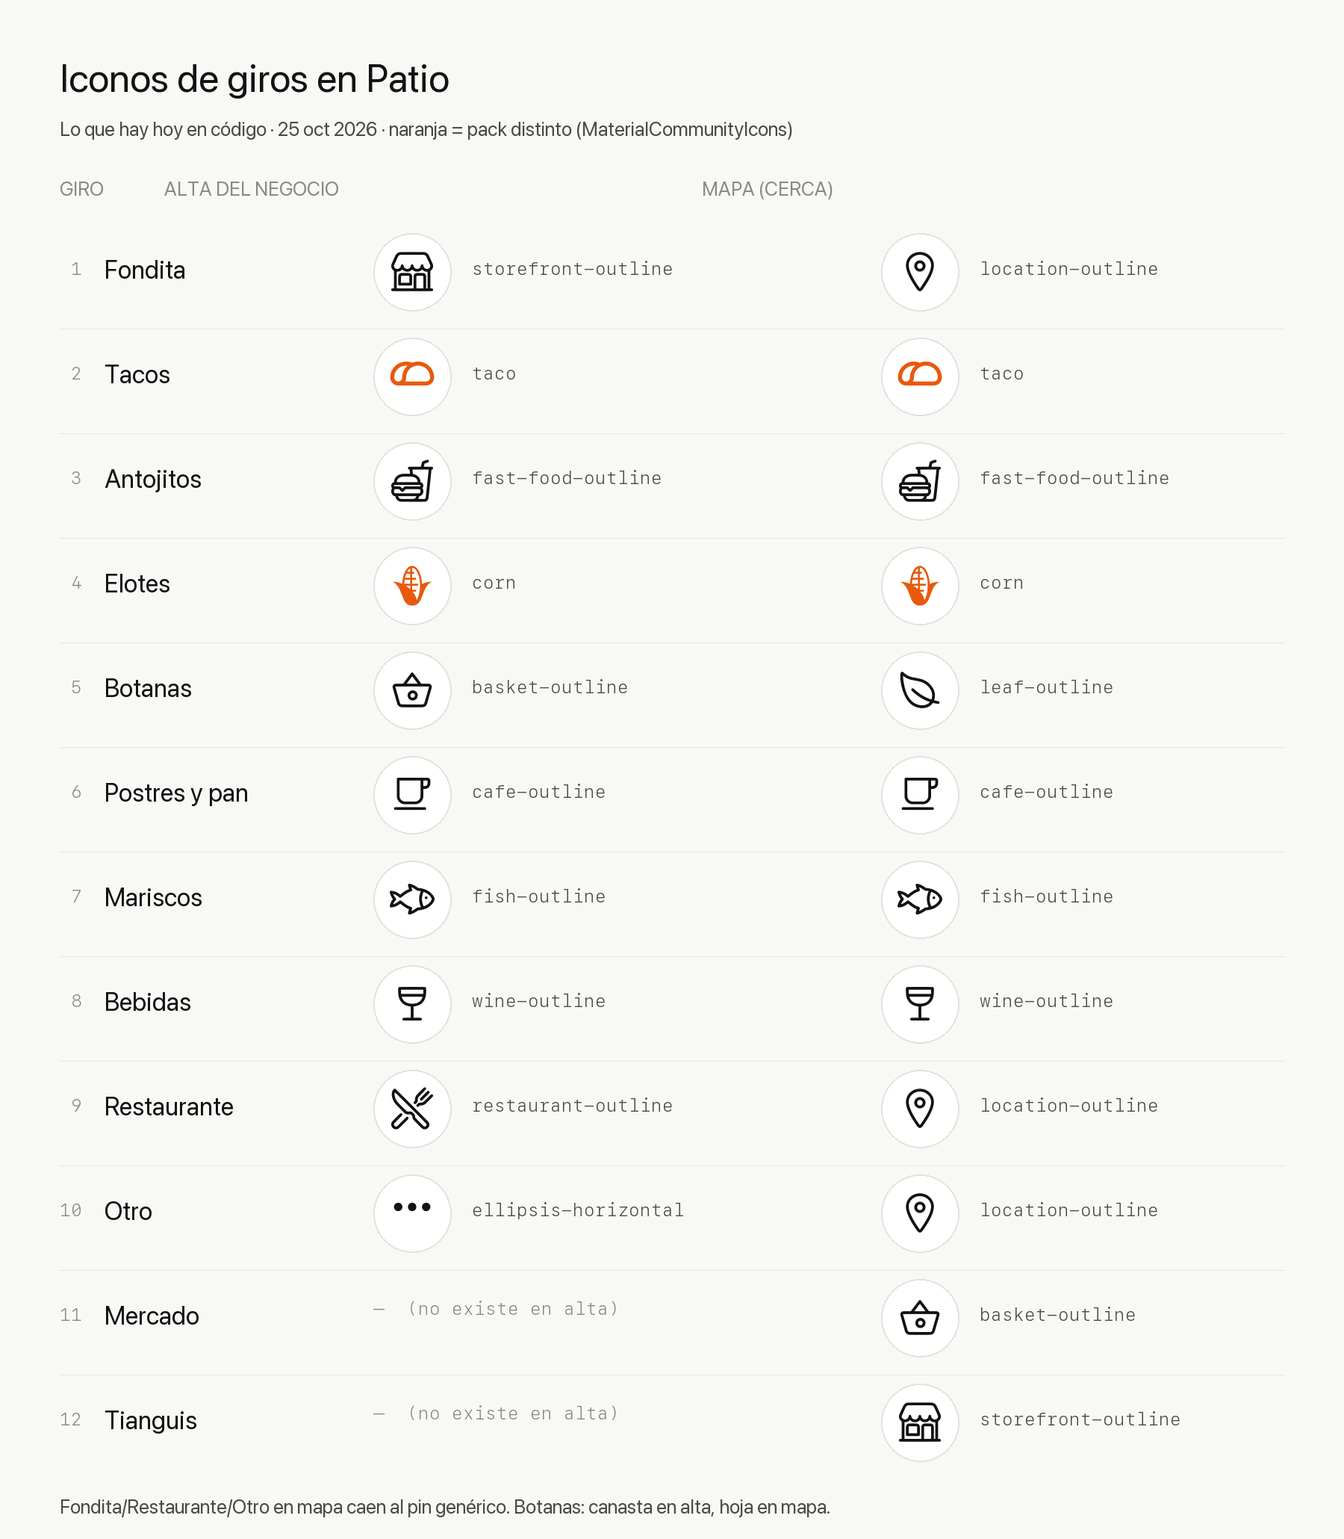
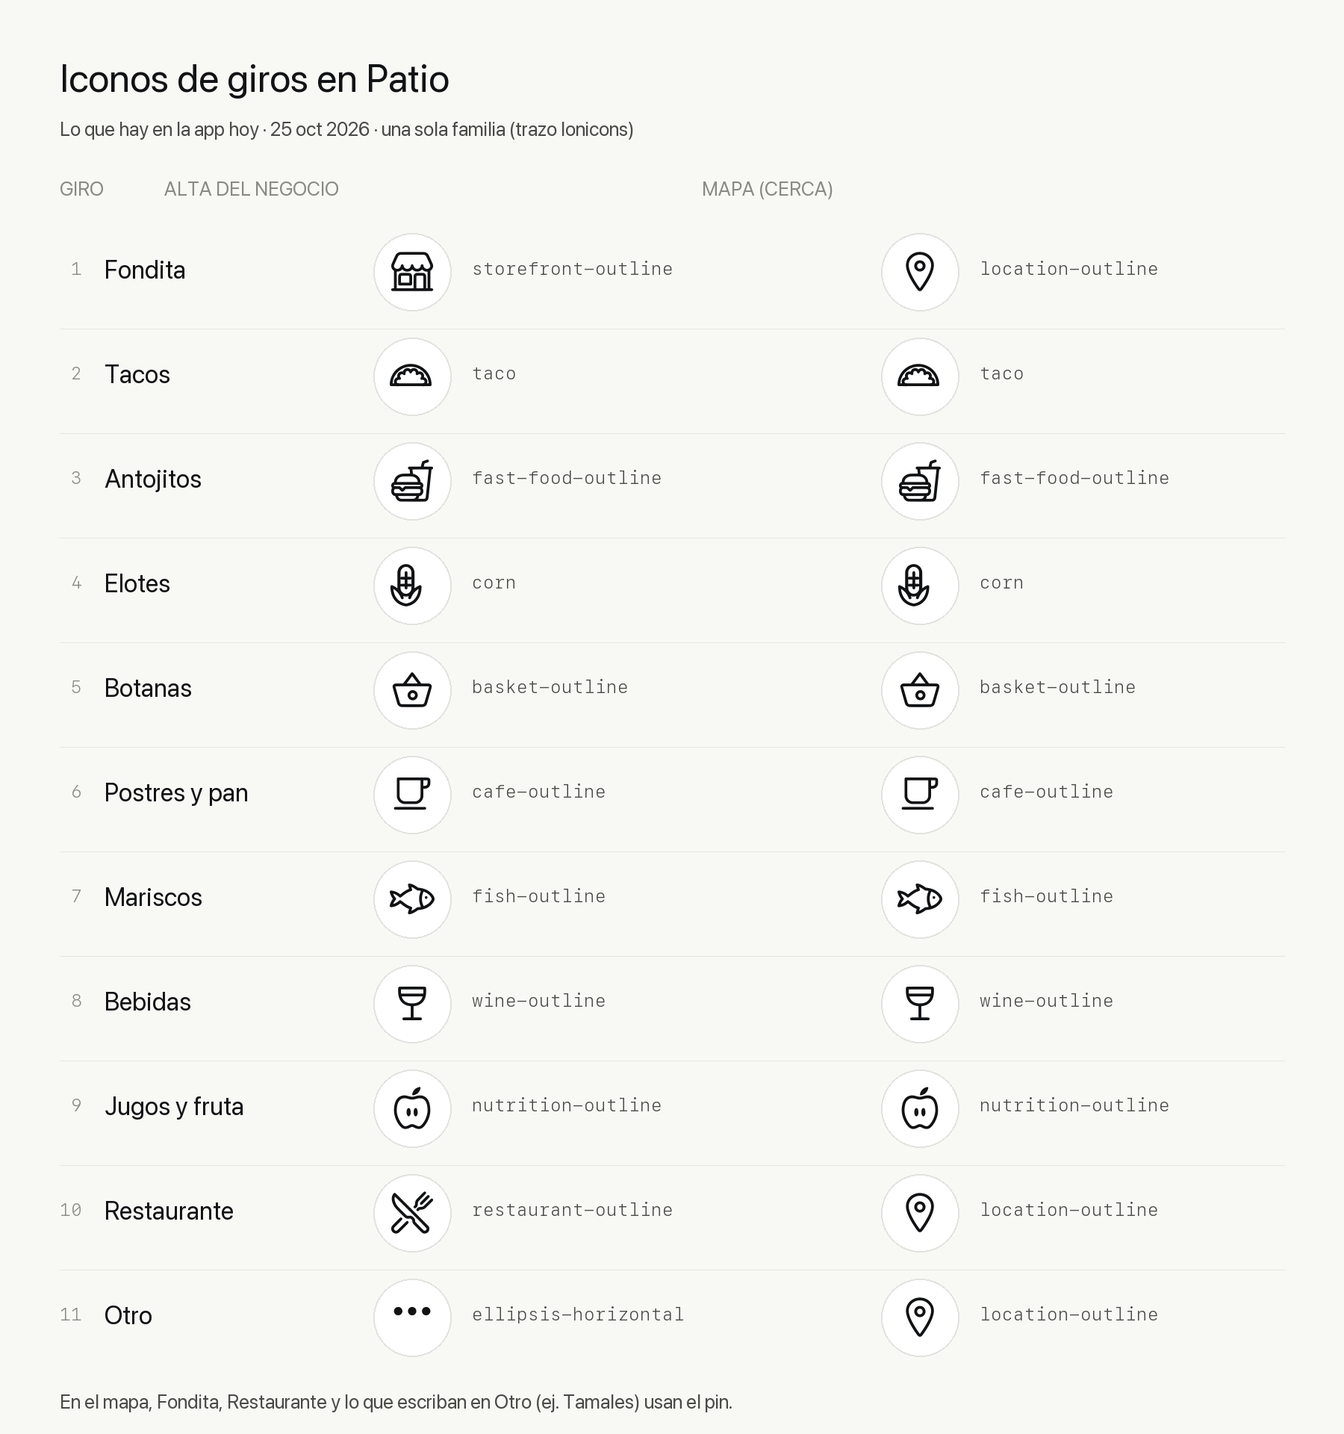
fix: «Otro» guarda el giro escrito en vez de Fondita; planes por público y cupos

diff --git a/artifacts/planes-propuesta-2026-10-25.html b/artifacts/planes-propuesta-2026-10-25.html
@@ -1,120 +1,145 @@
-<!doctype html><html lang="es"><head><meta charset="utf-8"><meta name="viewport" content="width=device-width,initial-scale=1"><title>Planes de Patio</title>
-<link href="https://fonts.googleapis.com/css2?family=Plus+Jakarta+Sans:wght@400;600;800&display=swap" rel="stylesheet">
-<style>body{margin:0;background:#E9E9E4;display:flex;gap:48px;padding:48px;align-items:flex-start;flex-wrap:wrap}a{color:#111214}h1,h2,p,li{text-wrap:pretty}</style></head><body>
-<div style="width: 1280px; height: 860px; box-sizing: border-box; padding: 64px 64px 56px; background: #F8F8F5; color: #111214; font-family: -apple-system, 'SF Pro Text', system-ui, sans-serif; display: flex; flex-direction: column; gap: 40px">
-  <div style="display: flex; flex-direction: column; gap: 8px">
-    <p style="margin: 0; font-size: 11px; font-weight: 700; letter-spacing: 1.7px; text-transform: uppercase; color: #4A4A47">Planes</p>
-    <h1 style="margin: 0; font-family: 'Plus Jakarta Sans', sans-serif; font-size: 38px; font-weight: 800; letter-spacing: -1.2px; line-height: 1.1">Lo de hoy, para todos. Lo de más, para quien crece.</h1>
-  </div>
+<!doctype html>
+<html lang="es">
+<head>
+<meta charset="utf-8">
+<meta name="viewport" content="width=device-width,initial-scale=1">
+<title>Planes de Patio</title>
+<style>
+:root{--bg:#F8F8F5;--ink:#111214;--soft:#4A4A47;--line:rgba(17,18,20,0.08);--card:#FFFFFF;--accent:#F2612F}
+*{box-sizing:border-box}
+body{margin:0;background:var(--bg);color:var(--ink);font-family:-apple-system,'SF Pro Text',system-ui,sans-serif}
+main{max-width:1120px;margin:0 auto;padding:56px 16px 64px}
+h1{margin:0;font-size:38px;font-weight:800;letter-spacing:-1.2px;line-height:1.1;text-wrap:balance}
+p,li{text-wrap:pretty}
+.eyebrow{margin:0 0 8px;font-size:11px;font-weight:700;letter-spacing:1.7px;text-transform:uppercase;color:var(--soft)}
+.controls{display:flex;flex-wrap:wrap;gap:12px;align-items:center;justify-content:space-between;margin:32px 0 24px}
+.seg{display:inline-flex;border:1px solid var(--line);border-radius:14px;overflow:hidden;background:var(--card)}
+.seg button{border:0;background:transparent;font:inherit;font-size:14px;font-weight:700;padding:0 18px;min-height:44px;color:var(--soft);cursor:pointer}
+.seg button[aria-pressed=true]{background:var(--ink);color:#fff}
+.grid{display:grid;grid-template-columns:repeat(auto-fit,minmax(250px,1fr));gap:16px}
+.card{background:var(--card);border:0.5px solid var(--line);border-radius:18px;padding:24px;display:flex;flex-direction:column;gap:18px;position:relative}
+.card.dark{background:var(--ink);color:#fff;border-color:transparent}
+.card.dark .soft{color:rgba(255,255,255,0.72)}
+.badge{position:absolute;top:20px;right:20px;font-size:11px;font-weight:700;letter-spacing:1px;text-transform:uppercase;padding:5px 10px;border-radius:100px;background:rgba(255,255,255,0.14)}
+.name{margin:0;font-size:13px;font-weight:700;letter-spacing:1.2px;text-transform:uppercase}
+.price{margin:0;font-size:34px;font-weight:800;letter-spacing:-1px}
+.price small{font-size:14px;font-weight:400;letter-spacing:0}
+.soft{color:var(--soft);margin:0;font-size:14px}
+.quota{border-radius:14px;padding:14px 16px;background:rgba(17,18,20,0.04);display:flex;flex-direction:column;gap:6px}
+.dark .quota{background:rgba(255,255,255,0.08)}
+.quota div{display:flex;justify-content:space-between;gap:12px;font-size:14px}
+.quota b{font-weight:700}
+ul{margin:0;padding:0;list-style:none;display:flex;flex-direction:column;gap:9px;font-size:14px;line-height:1.4}
+li::before{content:"";display:inline-block;width:6px;height:6px;border-radius:3px;background:currentColor;opacity:.5;margin:0 10px 2px 0}
+.spacer{flex-grow:1}
+.btn{display:flex;align-items:center;justify-content:center;min-height:48px;border-radius:24px;font-size:15px;font-weight:700;text-decoration:none;border:1.5px solid var(--line);color:inherit}
+.btn.primary{background:var(--accent);border-color:var(--accent);color:#fff}
+.note{margin-top:20px;font-size:13px;color:var(--soft)}
+.founder{margin-top:16px;border-radius:18px;padding:24px;background:var(--card);border:0.5px solid var(--line);display:flex;flex-wrap:wrap;gap:16px;align-items:center;justify-content:space-between}
+.founder h2{margin:0;font-size:22px;font-weight:800;letter-spacing:-0.5px}
+[hidden]{display:none!important}
+</style>
+</head>
+<body>
+<main>
+  <p class="eyebrow">Planes</p>
+  <h1>Elige cómo usas&nbsp;Patio</h1>
 
-  <div style="display: grid; grid-template-columns: repeat(4, minmax(0, 1fr)); gap: 16px; flex-grow: 1">
-
-    <div style="background: #FFFFFF; border-radius: 18px; border: 0.5px solid rgba(17,18,20,0.08); padding: 28px 24px; display: flex; flex-direction: column; gap: 20px">
-      <div style="display: flex; flex-direction: column; gap: 4px">
-        <p style="margin: 0; font-size: 11px; font-weight: 700; letter-spacing: 1.7px; text-transform: uppercase; color: #4A4A47">Foodie</p>
-        <h2 style="margin: 0; font-family: 'Plus Jakarta Sans', sans-serif; font-size: 28px; font-weight: 800; letter-spacing: -0.8px">Gratis</h2>
-        <p style="margin: 0; font-size: 14px; color: #4A4A47">Siempre.</p>
-      </div>
-      <ul style="margin: 0; padding: 0; list-style: none; display: flex; flex-direction: column; gap: 10px; font-size: 14px; line-height: 1.4">
-        <li>Qué hay hoy cerca de ti</li>
-        <li>Buscar por platillo</li>
-        <li>Guardar lugares y armar listas</li>
-        <li>Reseñar y seguir a otros foodies</li>
-        <li>Aviso cuando tu lugar publica</li>
-      </ul>
-      <div style="flex-grow: 1"></div>
-      <a href="#" style="display: flex; align-items: center; justify-content: center; height: 48px; border-radius: 24px; border: 1.5px solid rgba(17,18,20,0.08); font-size: 15px; font-weight: 700; text-decoration: none">Ver qué hay hoy</a>
+  <div class="controls">
+    <div class="seg" role="group" aria-label="Tipo de cuenta">
+      <button type="button" aria-pressed="false" data-aud="foodie">Para comer</button>
+      <button type="button" aria-pressed="true" data-aud="negocio">Para tu negocio</button>
     </div>
-
-    <div style="background: #FFFFFF; border-radius: 18px; border: 0.5px solid rgba(17,18,20,0.08); padding: 28px 24px; display: flex; flex-direction: column; gap: 20px">
-      <div style="display: flex; flex-direction: column; gap: 4px">
-        <p style="margin: 0; font-size: 11px; font-weight: 700; letter-spacing: 1.7px; text-transform: uppercase; color: #4A4A47">Patio Gratis · negocios</p>
-        <h2 style="margin: 0; font-family: 'Plus Jakarta Sans', sans-serif; font-size: 28px; font-weight: 800; letter-spacing: -0.8px">$0</h2>
-        <p style="margin: 0; font-size: 14px; color: #4A4A47">Para empezar a publicar hoy.</p>
-      </div>
-      <ul style="margin: 0; padding: 0; list-style: none; display: flex; flex-direction: column; gap: 10px; font-size: 14px; line-height: 1.4">
-        <li>Tu lugar en el mapa y perfil público</li>
-        <li>Menú del día escrito a mano, sin límite</li>
-        <li>[10] lecturas con foto al mes</li>
-        <li>Aviso a quienes te guardaron</li>
-        <li>Reseñas y respuestas</li>
-      </ul>
-      <div style="flex-grow: 1"></div>
-      <a href="#" style="display: flex; align-items: center; justify-content: center; height: 48px; border-radius: 24px; border: 1.5px solid rgba(17,18,20,0.08); font-size: 15px; font-weight: 700; text-decoration: none">Publicar lo de hoy</a>
-    </div>
-
-    <div style="background: #111214; color: #FFFFFF; border-radius: 18px; padding: 28px 24px; display: flex; flex-direction: column; gap: 20px">
-      <div style="display: flex; flex-direction: column; gap: 4px">
-        <p style="margin: 0; font-size: 11px; font-weight: 700; letter-spacing: 1.7px; text-transform: uppercase; color: rgba(255,255,255,0.72)">Patio Pro · negocios</p>
-        <h2 style="margin: 0; font-family: 'Plus Jakarta Sans', sans-serif; font-size: 28px; font-weight: 800; letter-spacing: -0.8px">$99 <span style="font-family: -apple-system, system-ui, sans-serif; font-size: 15px; font-weight: 400; letter-spacing: 0">al mes</span></h2>
-        <p style="margin: 0; font-size: 14px; color: rgba(255,255,255,0.72)">O $990 al año: dos meses de regalo.</p>
-      </div>
-      <ul style="margin: 0; padding: 0; list-style: none; display: flex; flex-direction: column; gap: 10px; font-size: 14px; line-height: 1.4">
-        <li>Todo lo de Gratis</li>
-        <li>Lecturas con foto sin límite</li>
-        <li>Avisos especiales: «hoy cerramos», «mañana hay pozole»</li>
-        <li>Quién te guarda y cuántos ven tu menú</li>
-        <li>Platillo destacado en el mapa</li>
-        <li style="color: rgba(255,255,255,0.72)">Pronto: publica con tu voz</li>
-      </ul>
-      <div style="flex-grow: 1"></div>
-      <a href="#" style="display: flex; align-items: center; justify-content: center; height: 48px; border-radius: 24px; background: #F2612F; color: #FFFFFF; font-size: 15px; font-weight: 700; text-decoration: none">Probar Pro</a>
-    </div>
-
-    <div style="background: #FFFFFF; border-radius: 18px; border: 0.5px solid rgba(17,18,20,0.08); padding: 28px 24px; display: flex; flex-direction: column; gap: 20px">
-      <div style="display: flex; flex-direction: column; gap: 4px">
-        <p style="margin: 0; font-size: 11px; font-weight: 700; letter-spacing: 1.7px; text-transform: uppercase; color: #4A4A47">Fundadores</p>
-        <h2 style="margin: 0; font-family: 'Plus Jakarta Sans', sans-serif; font-size: 28px; font-weight: 800; letter-spacing: -0.8px">6 meses de Pro</h2>
-        <p style="margin: 0; font-size: 14px; color: #4A4A47">Para las primeras cocinas de cada&nbsp;colonia.</p>
-      </div>
-      <ul style="margin: 0; padding: 0; list-style: none; display: flex; flex-direction: column; gap: 10px; font-size: 14px; line-height: 1.4">
-        <li>Todo Pro, sin costo, desde el primer día</li>
-        <li>Sello de Fundador en tu perfil, para siempre</li>
-        <li>Invita a otra cocina: un mes más para las dos</li>
-        <li>Línea directa con el equipo de Patio</li>
-      </ul>
-      <div style="flex-grow: 1"></div>
-      <a href="#" style="display: flex; align-items: center; justify-content: center; height: 48px; border-radius: 24px; border: 1.5px solid rgba(17,18,20,0.08); font-size: 15px; font-weight: 700; text-decoration: none">Quiero ser fundador</a>
-    </div>
-
-  </div>
-
-  <p style="margin: 0; font-size: 13px; color: #4A4A47">Precios en pesos mexicanos, con IVA. Pro se paga y se cancela desde App Store o Google Play.</p>
-</div>
-<div style="width: 390px; height: 844px; box-sizing: border-box; padding: 64px 16px 32px; background: #F8F8F5; color: #111214; font-family: -apple-system, 'SF Pro Text', system-ui, sans-serif; display: flex; flex-direction: column; gap: 24px">
-  <a href="#" aria-label="Volver" style="width: 38px; height: 38px; border-radius: 19px; background: rgba(255,255,255,0.8); border: 0.5px solid rgba(17,18,20,0.08); display: flex; align-items: center; justify-content: center">
-    <svg width="18" height="18" viewBox="0 0 512 512" aria-hidden="true"><path d="M328 112L184 256l144 144" fill="none" stroke="#111214" stroke-width="48" stroke-linecap="round" stroke-linejoin="round"></path></svg>
-  </a>
-  <h1 style="margin: 0; font-family: 'Plus Jakarta Sans', sans-serif; font-size: 34px; font-weight: 800; letter-spacing: -1px">Tu plan</h1>
-
-  <div style="background: #FFFFFF; border-radius: 18px; border: 0.5px solid rgba(17,18,20,0.08); padding: 20px; display: flex; flex-direction: column; gap: 14px">
-    <div style="display: flex; justify-content: space-between; align-items: baseline">
-      <p style="margin: 0; font-size: 17px; font-weight: 700">Patio Gratis</p>
-      <p style="margin: 0; font-size: 14px; color: #4A4A47">$0</p>
-    </div>
-    <div style="display: flex; flex-direction: column; gap: 6px">
-      <div style="display: flex; justify-content: space-between; font-size: 13px; color: #4A4A47"><span>Lecturas con foto este mes</span><span>7 de [10]</span></div>
-      <div style="height: 6px; border-radius: 3px; background: rgba(17,18,20,0.08); overflow: hidden"><div style="width: 70%; height: 6px; background: #111214"></div></div>
-      <p style="margin: 0; font-size: 12px; color: #4A4A47">Se renuevan el 1 de noviembre. Escribir a mano siempre es&nbsp;libre.</p>
+    <div class="seg" role="group" aria-label="Periodo" id="periodo">
+      <button type="button" aria-pressed="true" data-per="mes">Mensual</button>
+      <button type="button" aria-pressed="false" data-per="anual">Anual · 2 meses gratis</button>
     </div>
   </div>
 
-  <div style="background: #111214; color: #FFFFFF; border-radius: 18px; padding: 22px 20px; display: flex; flex-direction: column; gap: 16px">
-    <div style="display: flex; flex-direction: column; gap: 4px">
-      <p style="margin: 0; font-size: 11px; font-weight: 700; letter-spacing: 1.7px; text-transform: uppercase; color: rgba(255,255,255,0.72)">Patio Pro</p>
-      <p style="margin: 0; font-family: 'Plus Jakarta Sans', sans-serif; font-size: 26px; font-weight: 800; letter-spacing: -0.8px">$99 <span style="font-family: -apple-system, system-ui, sans-serif; font-size: 14px; font-weight: 400; letter-spacing: 0">al mes</span></p>
+  <section data-show="foodie" hidden>
+    <div class="grid">
+      <div class="card">
+        <p class="name">Foodie</p>
+        <p class="price">Gratis</p>
+        <p class="soft">Siempre. Comer bien no se&nbsp;cobra.</p>
+        <ul>
+          <li>Qué hay hoy cerca de ti</li>
+          <li>Buscar por platillo</li>
+          <li>Listas para guardar y compartir</li>
+          <li>Reseñas, seguidores y tu&nbsp;@usuario</li>
+        </ul>
+        <div class="spacer"></div>
+        <a class="btn" href="#">Ver qué hay hoy</a>
+      </div>
     </div>
-    <ul style="margin: 0; padding: 0; list-style: none; display: flex; flex-direction: column; gap: 9px; font-size: 14px; line-height: 1.4">
-      <li>Lecturas con foto sin límite</li>
-      <li>Avisos especiales a tus clientes</li>
-      <li>Quién te guarda y cuántos ven tu menú</li>
-      <li>Platillo destacado en el mapa</li>
-    </ul>
-    <a href="#" style="display: flex; align-items: center; justify-content: center; height: 50px; border-radius: 25px; background: #F2612F; color: #FFFFFF; font-size: 16px; font-weight: 700; text-decoration: none">Probar Pro un mes</a>
-    <p style="margin: 0; text-align: center; font-size: 12px; color: rgba(255,255,255,0.72)">O $990 al año. Cancela cuando&nbsp;quieras.</p>
-  </div>
+    <p class="note">¿Cocinas o tienes un puesto? Cambia a «Para tu negocio». Es la misma app y la misma&nbsp;cuenta.</p>
+  </section>
 
-  <div style="flex-grow: 1"></div>
-  <a href="#" style="text-align: center; font-size: 14px; color: #4A4A47; text-decoration: none; min-height: 44px; display: flex; align-items: center; justify-content: center">Restaurar compras</a>
-</div>
-</body></html>
+  <section data-show="negocio">
+    <div class="grid">
+      <div class="card">
+        <p class="name">Gratis</p>
+        <p class="price">$0</p>
+        <p class="soft">Para publicar desde hoy.</p>
+        <div class="quota">
+          <div><span>Lecturas con foto</span><b>10 al mes</b></div>
+          <div><span>Menú escrito a mano</span><b>Sin límite</b></div>
+          <div><span>Avisos especiales</span><b>—</b></div>
+        </div>
+        <ul>
+          <li>Tu lugar en el mapa</li>
+          <li>Aviso a quienes te guardaron</li>
+          <li>Reseñas y respuestas</li>
+        </ul>
+        <div class="spacer"></div>
+        <a class="btn" href="#">Empezar gratis</a>
+      </div>
+
+      <div class="card dark">
+        <span class="badge">Más elegido</span>
+        <p class="name">Pro</p>
+        <p class="price"><span data-price-mes>$99 <small>al mes</small></span><span data-price-anual hidden>$990 <small>al año</small></span></p>
+        <p class="soft">Para la cocina que publica a&nbsp;diario.</p>
+        <div class="quota">
+          <div><span>Lecturas con foto</span><b>60 al mes</b></div>
+          <div><span>Menú escrito a mano</span><b>Sin límite</b></div>
+          <div><span>Avisos especiales</span><b>8 al mes</b></div>
+        </div>
+        <ul>
+          <li>Todo lo de Gratis</li>
+          <li>Quién te guarda y cuántos te ven</li>
+          <li>Platillo destacado en el mapa</li>
+          <li class="soft">Pronto: publica con tu voz</li>
+        </ul>
+        <div class="spacer"></div>
+        <a class="btn primary" href="#">Probar Pro</a>
+      </div>
+    </div>
+
+    <div class="founder">
+      <div>
+        <p class="eyebrow">Fundadores</p>
+        <h2>6 meses de Pro, gratis</h2>
+        <p class="soft">Para las primeras cocinas de cada colonia. Sello de Fundador para siempre y un mes más por cada cocina que&nbsp;invites.</p>
+      </div>
+      <a class="btn" href="#" style="padding:0 24px">Quiero ser fundador</a>
+    </div>
+    <p class="note">Precios en pesos, con IVA. Las lecturas se renuevan cada mes. Pro se paga y se cancela desde App Store o Google&nbsp;Play.</p>
+  </section>
+</main>
+<script>
+const audBtns=document.querySelectorAll('[data-aud]');
+audBtns.forEach(b=>b.addEventListener('click',()=>{
+  audBtns.forEach(x=>x.setAttribute('aria-pressed',String(x===b)));
+  document.querySelectorAll('[data-show]').forEach(s=>s.hidden=s.dataset.show!==b.dataset.aud);
+  document.getElementById('periodo').hidden=b.dataset.aud!=='negocio';
+}));
+const perBtns=document.querySelectorAll('[data-per]');
+perBtns.forEach(b=>b.addEventListener('click',()=>{
+  perBtns.forEach(x=>x.setAttribute('aria-pressed',String(x===b)));
+  document.querySelector('[data-price-mes]').hidden=b.dataset.per!=='mes';
+  document.querySelector('[data-price-anual]').hidden=b.dataset.per!=='anual';
+}));
+</script>
+</body>
+</html>

diff --git a/app/patio-smart.tsx b/app/patio-smart.tsx
@@ -437,7 +437,28 @@ export default function PatioSmartScreen() {
                 );
               })}
             </View>
-            <ContinueButton colors={colors} onPress={() => setStage('location')} />
+            {result.tipos.includes('otro') ? (
+              <View style={[s.field, s.otroField, { backgroundColor: colors.surface, borderColor: colors.border }]}>
+                <Text style={[s.fieldLabel, { color: colors.textMute }]} maxFontSizeMultiplier={1.3}>¿DE QUÉ ES TU NEGOCIO?</Text>
+                <TextInput
+                  accessibilityLabel="De qué es tu negocio"
+                  value={result.otroGiro ?? ''}
+                  onChangeText={(otroGiro) => update({ otroGiro: otroGiro.slice(0, 40) })}
+                  placeholder="Tamales, crepas, pozole…"
+                  placeholderTextColor={colors.textMute}
+                  selectionColor={colors.accent}
+                  returnKeyType="done"
+                  autoCapitalize="sentences"
+                  maxFontSizeMultiplier={1.4}
+                  style={[s.fieldInput, { color: colors.text }]}
+                />
+              </View>
+            ) : null}
+            <ContinueButton
+              colors={colors}
+              disabled={result.tipos.includes('otro') && !result.otroGiro?.trim()}
+              onPress={() => { Keyboard.dismiss(); setStage('location'); }}
+            />
           </>
         )}
 
@@ -558,6 +579,7 @@ const s = StyleSheet.create({
   fieldLabel: { fontSize: 10, lineHeight: 14, fontWeight: '700', letterSpacing: 0.8 },
   fieldInput: { flex: 1, minHeight: 36, padding: 0, fontSize: 19, lineHeight: 25, fontWeight: '500' },
   addressField: { marginTop: 12 },
+  otroField: { marginTop: 12 },
   continueButton: { minWidth: 154, minHeight: 48, alignSelf: 'center', marginTop: 26, paddingHorizontal: 26, borderRadius: 24, alignItems: 'center', justifyContent: 'center' },
   continueText: { fontSize: 15, fontWeight: '700' },
   disabled: { opacity: 0.2 },

diff --git a/lib/smart-setup.ts b/lib/smart-setup.ts
@@ -26,6 +26,8 @@ export type SmartSetupResult = {
   // elige al menos una.
   tipos: BusinessType[];
   especialidades: string[];
+  /** Texto libre cuando eligen «Otro»: alimenta los giros nuevos. */
+  otroGiro?: string;
   pagos: { efectivo: boolean; transferencia: boolean; tarjeta: boolean };
   horario: (HorarioSemanal[number] & { confirmado: boolean })[];
   faltantes: string[];
@@ -57,8 +59,15 @@ export const BUSINESS_TYPE_LABELS: Record<BusinessType, string> = {
   bebidas: 'Bebidas',
   jugos: 'Jugos y fruta',
   restaurante: 'Restaurante',
-  otro: 'Fondita',
+  otro: 'Otro',
 };
+
+// «Otro» guarda lo que la persona escribió (p. ej. «Tamales») en lugar de
+// perderlo; ese texto es la fuente del recopilado de giros nuevos.
+export function categoryLabel(id: BusinessType, otroGiro?: string): string {
+  const custom = id === 'otro' ? otroGiro?.trim().replace(/\s+/g, ' ') : '';
+  return custom ? custom.charAt(0).toLocaleUpperCase('es-MX') + custom.slice(1) : BUSINESS_TYPE_LABELS[id];
+}
 
 export async function prepareSmartSetup(relato: string): Promise<SmartSetupResult> {
   const { data, error } = await supabase.functions.invoke('smart-setup', {
@@ -98,7 +107,7 @@ export async function saveSmartSetup(result: SmartSetupResult): Promise<void> {
     // Multi-tag real (migración 20260816). Si el proyecto de Supabase todavía
     // no tiene la columna, Postgres rechaza el update completo por esa clave
     // desconocida — por eso se intenta aparte y se degrada sin bloquear el alta.
-    categorias: tipos.map((id) => BUSINESS_TYPE_LABELS[id]),
+    categorias: tipos.map((id) => categoryLabel(id, result.otroGiro)),
   };
   if (result.direccion.trim()) payload.direccion = result.direccion.trim();
   if (Number.isFinite(result.latitude) && Number.isFinite(result.longitude)) {

diff --git a/lib/patios.ts b/lib/patios.ts
@@ -270,7 +270,7 @@ function tipoLabels(tipo: string | null): string[] {
     bebidas: ['Bebidas'],
     jugos: ['Jugos y fruta'],
     restaurante: ['Restaurante'],
-    otro: ['Fondita'],
+    otro: ['Otro'],
   };
   return (tipo && map[tipo]) || ['Fondita'];
 }
